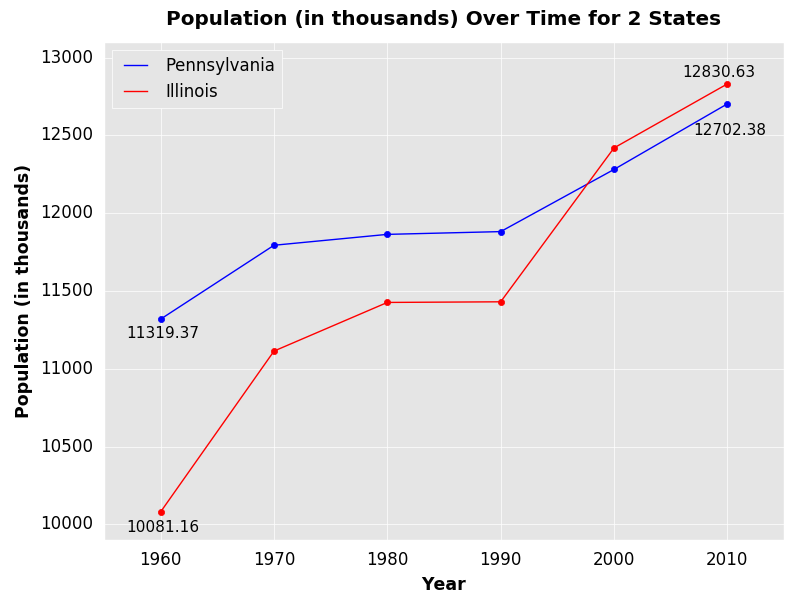
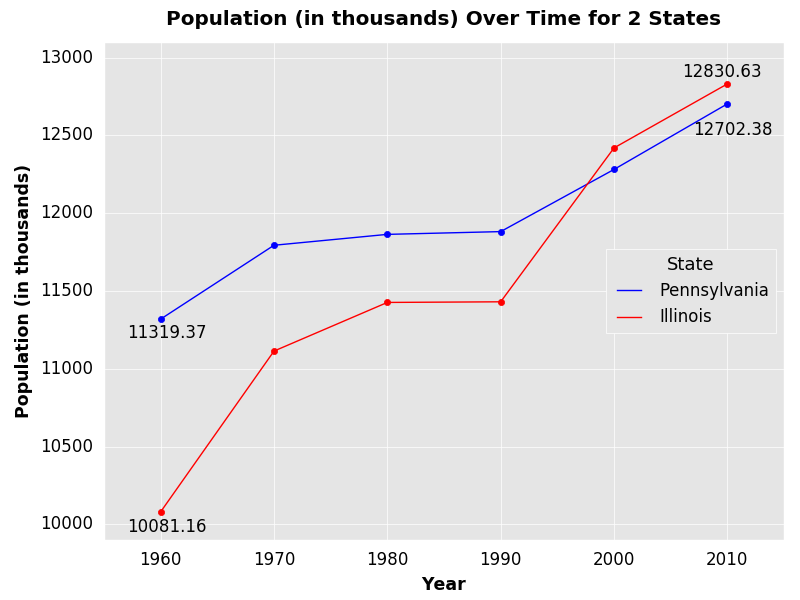
modify line graph
move legend. add legend title. increase annotation text size

diff --git a/line_graph.py b/line_graph.py
@@ -69,19 +69,19 @@ ax1.scatter(census_subset['Year'].unique().tolist(),
 ax1.annotate(round(census_subset[(census_subset['State'] == 'Illinois') & (census_subset['Year'] == '1960')]['Population'].values[0], 2),
              xy = (1957, 9950),
              xytext = (1957, 9950),
-             fontsize = 11)
+             fontsize = 12)
 ax1.annotate(round(census_subset[(census_subset['State'] == 'Pennsylvania') & (census_subset['Year'] == '1960')]['Population'].values[0], 2),
              xy = (1957, 11150),
              xytext = (1957, 11200),
-             fontsize = 11)
+             fontsize = 12)
 ax1.annotate(round(census_subset[(census_subset['State'] == 'Illinois') & (census_subset['Year'] == '2010')]['Population'].values[0], 2),
              xy = (2006, 12900),
              xytext = (2006, 12875),
-             fontsize = 11)
+             fontsize = 12)
 ax1.annotate(round(census_subset[(census_subset['State'] == 'Pennsylvania') & (census_subset['Year'] == '2010')]['Population'].values[0], 2),
              xy = (2007, 12500),
              xytext = (2007, 12500),
-             fontsize = 11)
+             fontsize = 12)
 
 # Set x-axis and y-axis limits.
 plt.ylim([9900, 13100])
@@ -113,7 +113,9 @@ plt.ylabel('Population (in thousands)',
            color = 'black')
 
 # Add legend.
-ax1.legend(loc = 2)
+legend = ax1.legend(title = 'State',
+           loc = 'center right')
+plt.setp(legend.get_title(), fontsize = 13)
 
 # Adjust plot margins.
 plt.subplots_adjust(left = 0.13,
